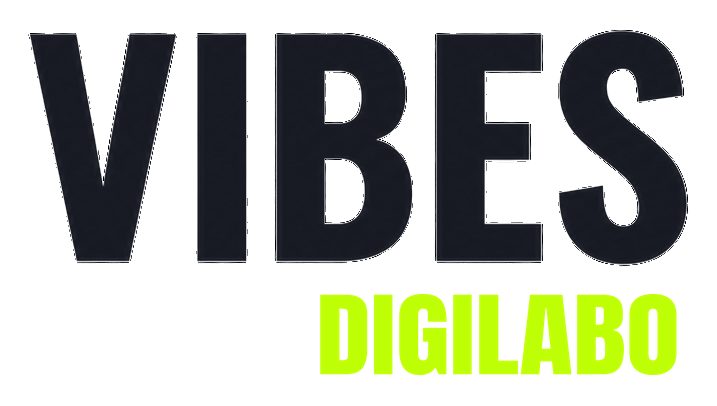
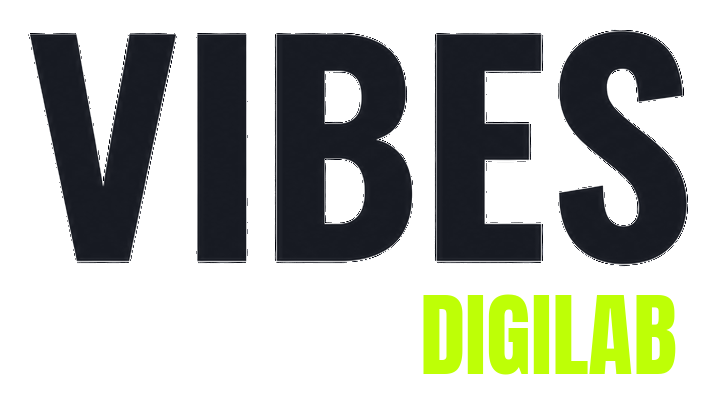
DIGITAL LAB / -DIGILAB- の表記とロゴ画像（DIGILAB）
Claude-Session: https://claude.ai/code/session_01C8AGbxpqRN5xFvNoiAAhKY

Changed region(s): [[0.4296, 0.7094, 0.9512, 0.9458]]

diff --git a/static/labo/index.html b/static/labo/index.html
@@ -25,7 +25,7 @@ img{max-width:100%}
 
 <header style="border-bottom: 1px solid #343A48">
 <div style="max-width: 1160px; margin: 0 auto; padding: 12px 20px; display: flex; flex-wrap: wrap; align-items: center; justify-content: space-between; gap: 8px 20px">
-<a href="/" aria-label="VIBES BILLIARDS DIGITAL LAB" style="display: block"><img src="/img/vibes-digilabo-t.png" alt="VIBES DIGILABO" style="height: 54px; width: auto; display: block"></a>
+<a href="/" aria-label="VIBES BILLIARDS DIGITAL LAB" style="display: block"><img src="/img/vibes-digilabo-t.png" alt="VIBES DIGILAB" style="height: 54px; width: auto; display: block"></a>
 <nav style="display: flex; flex-wrap: wrap; align-items: center; gap: 4px 22px; font-weight: 700; font-size: 15px">
 <a href="#feature" style="color: #F3F4EF; text-decoration: none; padding: 10px 0">できること</a>
 <a href="#games" style="color: #F3F4EF; text-decoration: none; padding: 10px 0">対応種目</a>
@@ -221,7 +221,7 @@ img{max-width:100%}
 
 <footer style="border-top: 1px solid #343A48; padding: 28px 0 44px">
 <div style="max-width: 1160px; margin: 0 auto; padding: 0 20px; display: flex; flex-wrap: wrap; align-items: center; justify-content: space-between; gap: 12px 24px; font-weight: 700; font-size: 14px; color: #A9AFBD">
-<img src="/img/vibes-digilabo-t.png" alt="VIBES DIGILABO" style="height: 44px; width: auto; display: block">
+<img src="/img/vibes-digilabo-t.png" alt="VIBES DIGILAB" style="height: 44px; width: auto; display: block">
 <span>VIBES BILLIARDS DIGITAL LAB</span>
 <a href="https://vibesbilliards.com/" style="color: #A9AFBD">vibesbilliards.com</a>
 </div>

diff --git a/static/apps/count-home.html b/static/apps/count-home.html
@@ -44,6 +44,7 @@ html,body{height:100%;margin:0;color:var(--chalk);font-family:VLDig,"Noto Sans J
 .ring.n5 .tile b{font-size:min(5.4vh,2.9vw);white-space:nowrap}.ring.n5 .tile{overflow:hidden}.ring.n5 .tile span{font-size:2.1vh;white-space:nowrap;overflow:hidden;text-overflow:ellipsis}
 .logo{grid-column:1/-1;display:grid;place-items:center;align-content:center;padding:1vh 0}
 .lab{margin-top:1.6vh;padding-top:1.4vh;border-top:.35vh solid var(--lime);font-family:VLNum,Unbounded,Anton,sans-serif;font-weight:900;font-size:2.7vh;letter-spacing:.3em;text-indent:.3em;color:var(--chalk);white-space:nowrap}
+.lab::after{content:"-DIGILAB-";display:block;font-size:.6em;letter-spacing:.34em;margin-top:.55em;color:var(--sub,#A9AFBD);text-align:center}
 .solo .lab{font-size:4.6vh;margin-top:2.4vh;padding-top:2vh;justify-self:center}.solo .lg{display:grid;justify-items:center;align-self:center}
 .shop{font-weight:900;font-size:4.4vh;letter-spacing:.08em;color:var(--chalk);white-space:nowrap;overflow:hidden;text-overflow:ellipsis;max-width:60vw}.solo .shop{font-size:6vh;margin-bottom:3vh;max-width:90vw}
 .pf{display:grid;grid-template-columns:1fr 1fr;gap:1.2vh 1.4vw;text-align:left}.pf label{display:block;font-weight:700;font-size:1.8vh;margin-bottom:.4vh;color:var(--chalk)}

diff --git a/static/apps/count-remote.html b/static/apps/count-remote.html
@@ -70,6 +70,7 @@ input:focus{outline:none;border-color:var(--lime)}
 .mt:active{transform:scale(.97)}.mt small{font-size:10px;font-weight:700;letter-spacing:.14em;color:#DCE3F0}.mt b{font-size:17px;font-weight:900;line-height:1.25}
 .mg.c2{grid-template-columns:repeat(2,minmax(0,1fr))}.mg.c2 .mt b{font-size:20px}
 .mlogo span{margin-top:10px;padding-top:9px;border-top:3px solid var(--lime);font-family:VLNum,Unbounded,Anton,sans-serif;font-weight:900;font-size:15px;letter-spacing:.34em;text-indent:.34em;color:var(--chalk)}
+.mlogo span::after{content:"-DIGILAB-";display:block;font-size:.6em;letter-spacing:.34em;margin-top:.55em;color:var(--sub,#A9AFBD);text-align:center}
 .mlogo{display:grid;place-items:center;padding:26px 0}.mlogo img{height:96px;width:auto}
 .pkh{display:grid;gap:10px}.pkh>small{font-weight:900;letter-spacing:.06em;color:var(--sub)}
 .pkp{display:grid;gap:8px}.pp{display:flex;align-items:center;justify-content:space-between;gap:10px;background:#5A616C;border-radius:14px;padding:10px 14px;border:3px solid transparent}

diff --git a/static/apps/count-live.html b/static/apps/count-live.html
@@ -19,6 +19,7 @@ video{position:fixed;inset:0;width:100%;height:100%;object-fit:contain;backgroun
 .ov{position:fixed;inset:0;display:grid;place-items:center;padding:4vh 4vw;background:radial-gradient(120% 90% at 50% 0%,#232836 0%,#171A22 55%,#0E1015 100%)}
 .box{display:grid;gap:2.4vh;justify-items:center;text-align:center;max-width:min(92vw,900px)}
 .box img{height:22vh;width:auto;max-width:70vw}
+.lab::after{content:"-DIGILAB-";display:block;font-size:.6em;letter-spacing:.34em;margin-top:.55em;color:var(--sub,#A9AFBD);text-align:center}
 .lab{font-family:Anton,Impact,sans-serif;letter-spacing:.3em;text-indent:.3em;font-size:3.4vh;border-top:.4vh solid var(--lime);padding-top:1.4vh}
 .box p{margin:0;font-weight:700;font-size:2.6vh;line-height:1.7;color:var(--chalk)}.box p small{display:block;color:var(--sub);font-size:2vh}
 form{display:grid;gap:1.6vh;justify-items:center}

diff --git a/static/labo/account.html b/static/labo/account.html
@@ -28,7 +28,7 @@ button.ghost{background:transparent;color:var(--chalk);border:2px solid var(--li
 </head>
 <body>
 <div class="box">
-  <a href="/" id="home"><img src="/img/vibes-digilabo-t.png" alt="VIBES DIGILABO" width="717" height="406"></a>
+  <a href="/" id="home"><img src="/img/vibes-digilabo-t.png" alt="VIBES DIGILAB" width="717" height="406"></a>
   <div class="card"><h1>アカウント</h1><dl><dt>店名</dt><dd id="shop">—</dd><dt>ID</dt><dd id="uid">—</dd><dt>利用期限</dt><dd id="exp">—</dd></dl>
     <a class="btn" href="/pages/count/">スコアボードを開く</a></div>
   <form class="card" id="f"><h2>パスワードを変える</h2>

diff --git a/static/sw-count.js b/static/sw-count.js
@@ -1,5 +1,5 @@
 /* Offline support for the scoreboards: /pages/count (start), /pages/count-3c, /pages/count-pocket, /pages/count-remote. */
-var C = 'vibes-count-3c-offline-v55';
+var C = 'vibes-count-3c-offline-v56';
 var PAGES = ['/pages/count/', '/pages/count-3c/', '/pages/count-pocket/'];
 var pageKey = function (u) { var p = new URL(u, location.origin).pathname; return p.charAt(p.length - 1) === '/' ? p : p + '/'; };
 var CORE = PAGES.concat([ '/img/vibes-logo-t.png', '/img/favicon-64.png', '/count-3c.webmanifest', '/fonts/unbounded-latin-900-normal.woff2',

diff --git a/static/labo/closed.html b/static/labo/closed.html
@@ -20,7 +20,7 @@ a:focus-visible{outline:3px solid #C0FC09;outline-offset:3px}
 </head>
 <body>
 <div class="box">
-  <img src="/img/vibes-digilabo-t.png" alt="VIBES DIGILABO" width="717" height="406">
+  <img src="/img/vibes-digilabo-t.png" alt="VIBES DIGILAB" width="717" height="406">
   <h1>ただいま準備中です</h1>
   <p>ホームページは、公開の準備をしています。導入店舗の方は、下のボタンからログインできます。</p>
   <a class="btn" id="login" href="/login">導入店舗ログイン</a>

diff --git a/static/labo/login.html b/static/labo/login.html
@@ -29,7 +29,7 @@ button:disabled{opacity:.6}
 </head>
 <body>
 <div class="box">
-  <a href="/" id="home" aria-label="VIBES BILLIARDS DIGITAL LAB"><img src="/img/vibes-digilabo-t.png" alt="VIBES DIGILABO" width="717" height="406"></a>
+  <a href="/" id="home" aria-label="VIBES BILLIARDS DIGITAL LAB"><img src="/img/vibes-digilabo-t.png" alt="VIBES DIGILAB" width="717" height="406"></a>
   <form class="card" id="f">
     <h1>導入店舗ログイン</h1>
     <p id="msg">お店のIDとパスワードを入れてください。</p>
